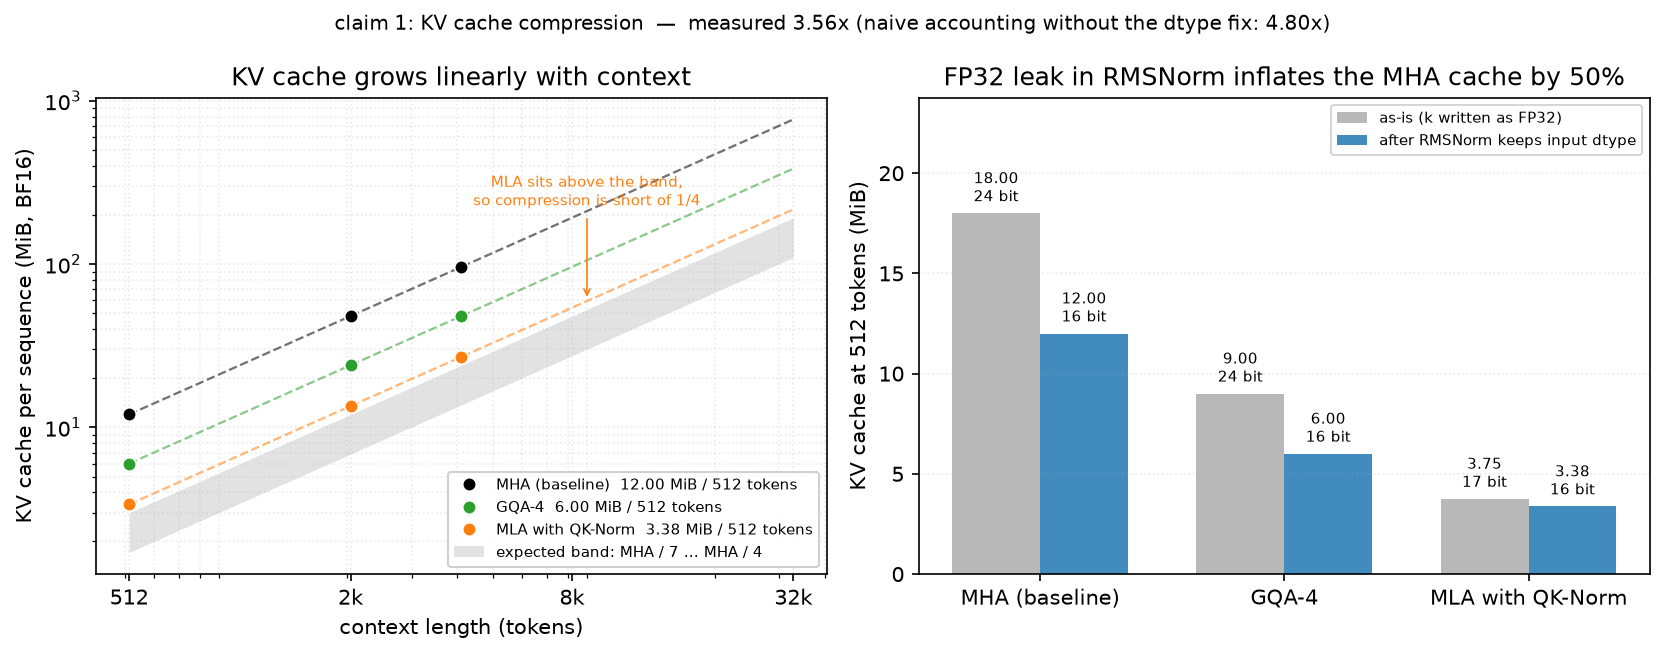
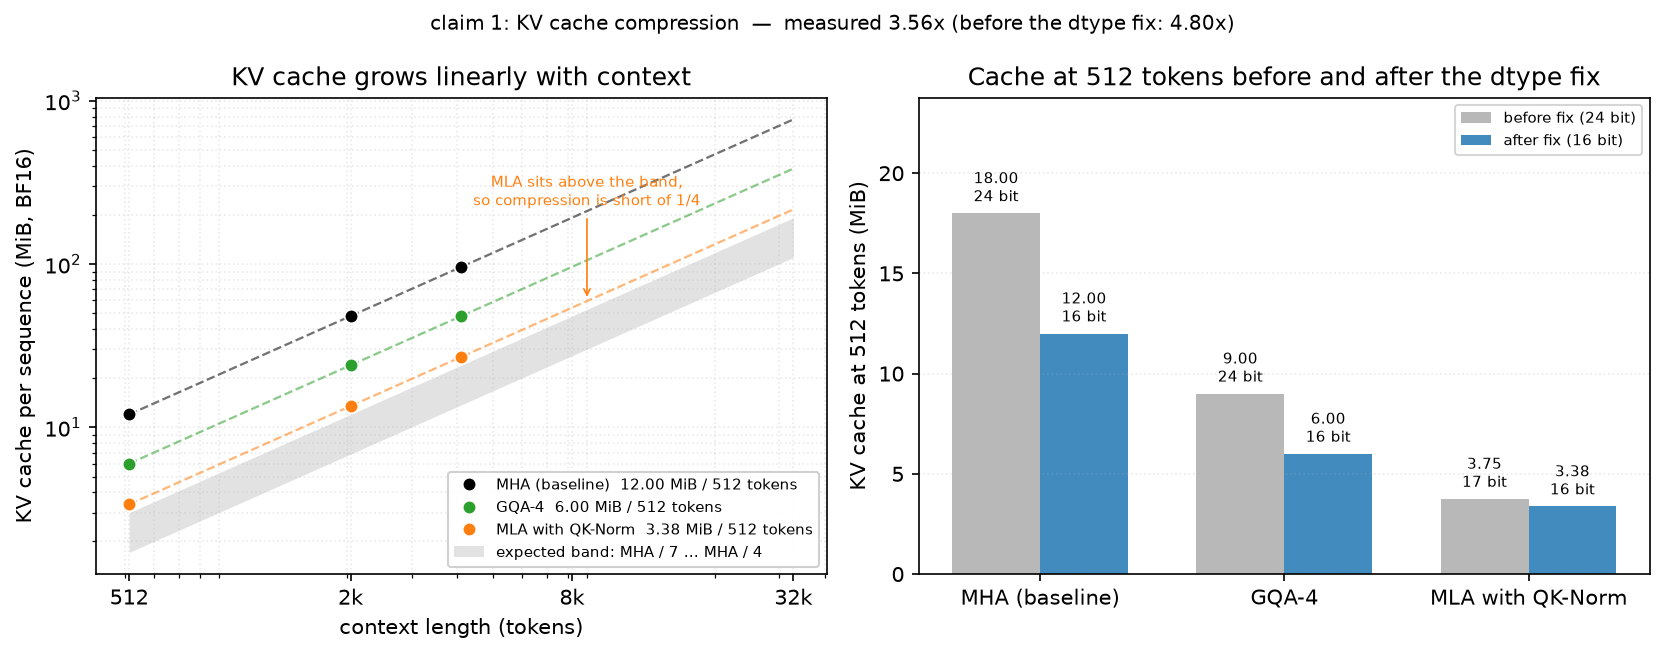
feat: qk_norm定性修正

Changed region(s): [[0.5625, 0.0917, 0.9688, 0.2446], [0.1875, 0.0, 0.8125, 0.0612]]

diff --git a/scripts/model/plot_claims.py b/scripts/model/plot_claims.py
@@ -108,9 +108,9 @@ def fig_cache(data):
     x = np.arange(len(tags))
     w = 0.36
     b1 = ax2.bar(x - w / 2, raw, w, color="tab:gray", alpha=0.55,
-                 label="as-is (k written as FP32)")
+                 label="before fix (24 bit)")
     b2 = ax2.bar(x + w / 2, fixed, w, color="tab:blue", alpha=0.85,
-                 label="after RMSNorm keeps input dtype")
+                 label="after fix (16 bit)")
     for rects, vals, bs in ((b1, raw, [b[0] for b in bits]), (b2, fixed, [b[1] for b in bits])):
         for rect, v, b in zip(rects, vals, bs):
             ax2.text(rect.get_x() + rect.get_width() / 2, v + 0.35, f"{v:.2f}\n{b} bit",
@@ -119,7 +119,7 @@ def fig_cache(data):
     ax2.set_xticklabels([LABEL[t] for t in tags])
     ax2.set_ylabel("KV cache at 512 tokens (MiB)")
     ax2.set_ylim(0, max(raw) * 1.32)
-    ax2.set_title("FP32 leak in RMSNorm inflates the MHA cache by 50%")
+    ax2.set_title("Cache at 512 tokens before and after the dtype fix")
     ax2.grid(axis="y", alpha=0.25, ls=":")
     ax2.legend(loc="upper right", fontsize=7.2)
 
@@ -127,7 +127,7 @@ def fig_cache(data):
     ratio_raw = raw[0] / raw[2]
     fig.suptitle(
         f"claim 1: KV cache compression  —  measured {ratio_fixed:.2f}x "
-        f"(naive accounting without the dtype fix: {ratio_raw:.2f}x)", fontsize=9.5)
+        f"(before the dtype fix: {ratio_raw:.2f}x)", fontsize=9.5)
     fig.tight_layout()
     save("model_claim_cache.png")
 

diff --git a/MLATrain/train.py b/MLATrain/train.py
@@ -103,7 +103,7 @@ def main():
     ap.add_argument("--ckpt-every", type=int, default=20_000_000)
     ap.add_argument("--grad-checkpoint", action="store_true")
     ap.add_argument("--use-qk-norm", action=argparse.BooleanOptionalAction, default=True,
-                    help="MLA 默认带 QK-Norm（DeepSeek-V2 结构）；关闭后可用吸收模式")
+                    help="MLA 默认带 QK-Norm（与 MHA 骨架一致，非 DeepSeek-V2 结构）；关闭后可用吸收模式")
     ap.add_argument("--data", default=str(ROOT / "data/tokens"))
     ap.add_argument("--out", default=None)
     ap.add_argument("--resume", default=None)

diff --git a/share/conclusion.md b/share/conclusion.md
@@ -12,7 +12,7 @@
 2. **吸收式推理在单请求下不省时。** `d_c=256` 时 absorbed/naive 的 decode 延迟比为 1.34（16K）、1.35（32K）；prefill 更差，为 2.18× 与 2.35×。
 3. **吸收存在盈亏边界，且界限位置与解析判据一致。** 把 `d_c` 从 384 降到 128，32K 下比值首次压到 0.965；判据给出的阈值为 179.2。
 4. **同语料同预算下，MLA 的困惑度高于 MHA 约 14%，GQA-4 高 1.5%。** 该差值只作质量参照，不构成对结构优劣的判定：64M 级模型的能力由规模主导。
-5. **MLA 主组采用带 QK-Norm 的版本，这是为结构对齐，不是为质量。** 与不启用 QK-Norm 的同规模版本相比，验证 PPL 由 10.491 降到 10.437（−0.5%，小于 seed 极差），训练时长由 2.20 h 增至 2.73 h（+24%），且开启后 `k` 的归一化无法并入 `W_UK`，吸收路径被封死。
+5. **MLA 主组采用带 QK-Norm 的版本，这是为与对照组骨架一致，不是为质量。** 与不启用 QK-Norm 的同规模版本相比，验证 PPL 由 10.491 降到 10.437（−0.5%，小于 seed 极差），训练时长由 2.20 h 增至 2.73 h（+24%），且开启后 `k` 的归一化无法并入 `W_UK`，吸收路径被封死。
 
 ## 二、缓存足迹
 
@@ -39,7 +39,7 @@
 
 两个 seed 的极差为 0.03（MHA）到 0.25（MLA）之间，MLA 与 MHA 的差值远大于极差，因此「MLA 在同预算下困惑度更高」是可重复的观测。GQA-4 与 MHA 的差值 0.1405 略大于两者极差之和 0.1242，方向在两个 seed 上一致（0.1715 与 0.1095），但幅度与 seed 波动同量级，不作结构差异判定。
 
-MLA 的两条变体之间只差 0.054，小于 seed 极差，因此「QK-Norm 改善质量」这一说法在本规模下不成立。启用 QK-Norm 的理由是与 DeepSeek-V2 的结构对齐，以及让同一份代码能对照论文口径，而不是困惑度。
+MLA 的两条变体之间只差 0.054，小于 seed 极差，因此「QK-Norm 改善质量」这一说法在本规模下不成立。启用 QK-Norm 的理由是让 MLA 与 MHA、GQA-4 的骨架保持一致（三者的 `q_norm`、`k_norm` 相同），使对照只差注意力结构；DeepSeek-V2 的 MLA 本身不含这一项，因此这不是对论文结构的复现。
 
 ### 3.2 训练成本
 

diff --git a/share/experiment_plan.md b/share/experiment_plan.md
@@ -27,7 +27,7 @@
 | MHA | 每头独立 KV（广义 GQA 取 `n_kv_heads=8`） | 8 | 1536 | 68,630,784 |
 | GQA-4 | 8 查询头共享 4 组 KV（`n_kv_heads=4`） | 4 | 768 | 63,912,192 |
 | MQA（未训练） | 8 查询头共享 1 组 KV（`n_kv_heads=1`） | 1 | 192 | 60,373,248 |
-| MLA | KV 低秩压缩 + 解耦 RoPE，启用 QK-Norm | — | 432 | 68,925,696 |
+| MLA | KV 低秩压缩 + 解耦 RoPE，启用 QK-Norm（与对照组骨架一致，非论文结构） | — | 432 | 68,925,696 |
 
 MHA、GQA、MQA 同属广义 GQA，共用 `MLATrain/model_gqa.py` 的同一个类，只差 `n_kv_heads` 这一个整数：取 8 是 MHA、取 4 是 GQA-4、取 1 是 MQA，缓存与投影形状随之线性变化。本轮只训练 MHA、GQA-4 与 MLA 三组；MQA 的参数量按同一公式外推，未实测。MLA 不属于这个族：它不减少 KV 组数，而是把每头 KV 压成低秩潜在向量，压缩的是维度而不是共享度。
 
